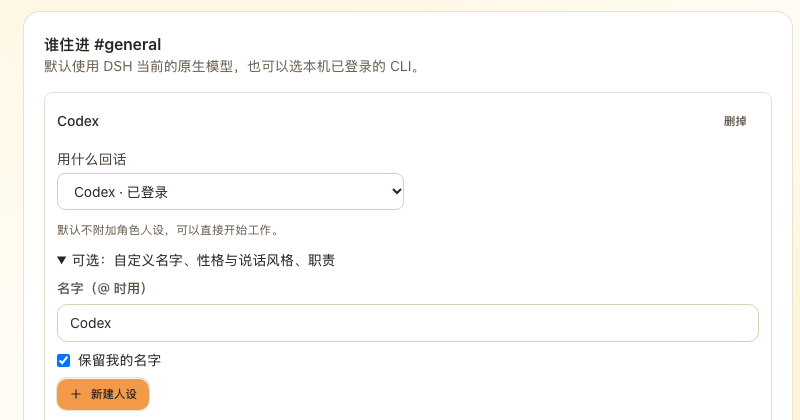
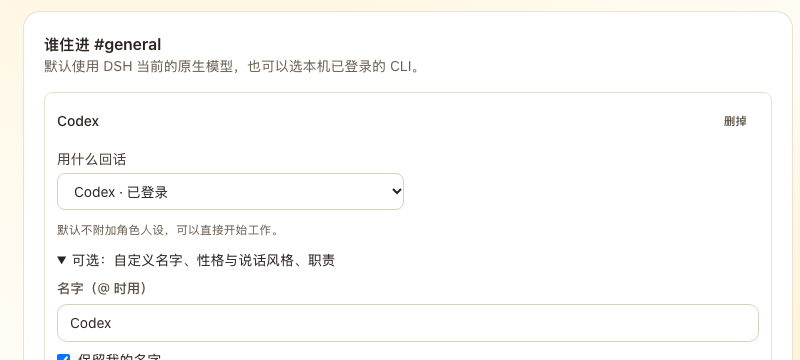
docs-site: 照 Fable 上线后复看改一轮
- 首页卡片先指向「装 bothouse」，名词对照挪进新手教程组
- 加「还没有 AI 工具？」，安装包放第一、补终端怎么打开
- Discord：页首安全提醒，邀请进服务器改成正式步骤，第二个队员改成实测过的加法
- DSH：两个队员改成必做，补按钮截图，刷新说法统一
- 架构图加大字号、点开看大图，截图都能点开看原图

diff --git a/docs-site/.vitepress/theme/custom.css b/docs-site/.vitepress/theme/custom.css
@@ -17,3 +17,10 @@
 .route p { margin: 6px 0 !important; font-size: 14px; line-height: 1.6; }
 .route .go { display: inline-block; margin-top: 8px; font-weight: 600; }
 .route.wip { opacity: .8; }
+@media (min-width: 960px) {
+  .VPHero .image-container { width: 520px; height: auto; transform: none; }
+}
+.VPHero .image-container { height: auto; }
+.VPHero .image-bg { display: none; }
+.VPHero .image-src { position: static; transform: none; max-width: 100%; max-height: none; border-radius: 18px; box-shadow: 0 12px 40px rgba(60, 40, 120, .18); }
+.vp-doc img { cursor: zoom-in; }

diff --git a/docs-site/.vitepress/theme/index.ts b/docs-site/.vitepress/theme/index.ts
@@ -1,3 +1,18 @@
 import DefaultTheme from 'vitepress/theme'
+import { onMounted } from 'vue'
 import './custom.css'
-export default DefaultTheme
+
+export default {
+  extends: DefaultTheme,
+  setup() {
+    onMounted(() => {
+      // 正文里的截图点一下在新窗口看原图
+      document.addEventListener('click', (e) => {
+        const t = e.target as HTMLElement
+        if (t && t.tagName === 'IMG' && t.closest('.vp-doc') && !t.closest('a')) {
+          window.open((t as HTMLImageElement).src, '_blank')
+        }
+      })
+    })
+  },
+}

diff --git a/docs-site/guide/discord.md b/docs-site/guide/discord.md
@@ -4,23 +4,24 @@
 
 ![做完的样子：你问机器人是谁，它回答](/img/discord/06-first-reply.png)
 
+::: danger 先记住一件事
+装到最后一页，一定要把「谁能指挥这些机器人」改成只有你自己（第 5 步会教）。不改的话，你服务器里**任何人**都能让机器人在你电脑上跑命令。
+:::
+
 ## 要准备什么
 
 在打开安装页面**之前**把这几样弄好，中途去弄会很麻烦：
 
 1. **一个你能管理的 Discord 服务器**。自己新建一个最省事：Discord 左边栏点「+」→ 创建服务器。
 2. **一个已登录的 AI 工具**：终端里敲 `codex` 或 `claude` 能正常聊天。**一定先登录好**——装到一半回去登录、再刷新安装页面，前面填的东西会被清空。
-3. **你自己的 Discord 用户 ID**（一串数字，后面用来设置「只有我能指挥它」）：Discord 设置 → 高级 → 打开「开发者模式」；然后右键自己的头像 →「复制用户 ID」，先存到记事本。
-4. **已经装好 bothouse**。还没装：[开始前：装 bothouse](./install)。
+3. **已经装好 bothouse，并打开了安装页面**。还没装：[开始前：装 bothouse](./install)。还没有 AI 工具：[还没有 AI 工具？](./choose#no-ai)。
 
-先只建**一个**机器人走通。想要更多队员，走通后再加。
+## 1. 去 Discord 后台建两个机器人 {#step-1}
 
-## 1. 去 Discord 后台建一个机器人 {#step-1}
-
-**一个机器人 = 一个 AI 队员。** 这一步在 Discord 的开发者后台做，页面是英文的。
+在 Discord 里，**一个机器人 = 一个 AI 队员**。建两个：一个当队长，一个当队员，第 7 步派活要用。这一步在 Discord 的开发者后台做，页面是英文的。下面 1 到 3 小步做两遍。
 
 1. 打开 [discord.com/developers/applications](https://discord.com/developers/applications)，点右上角 **New Application**，起个名字（这就是它在群里的名字），点 Create。
-2. 左边点 **Bot**，再点 **Reset Token**，然后点 **Copy** 复制。这串字就是**机器人的密码**，只显示一次，先存到记事本。
+2. 左边点 **Bot**，再点 **Reset Token**，然后点 **Copy** 复制。这串字就是**机器人的密码**（页面上叫 token），只显示一次，先存到记事本。
 3. 还在 Bot 这一页，往下翻到 **Privileged Gateway Intents**，打开 **Message Content Intent**（「允许机器人读消息」的开关），点 **Save Changes**。
 
 ::: warning 第 3 步最容易忘
@@ -35,27 +36,27 @@
 
 回到安装页面，第一页点 **Discord**，点「下一步」。
 
-1. 把刚才复制的密码贴进「机器人 token」，点 **校验**。
-2. 「装在哪个服务器」选你的服务器，「默认聊天频道」选一个频道（比如 #常规）。
-3. 点「下一步」。
-
-你会看到：校验后密码框下面出现绿色的机器人名字和一串编号。
+1. 把第一个机器人的密码贴进「机器人 token」，点 **校验**。你会看到：密码框下面出现绿色的机器人名字和一串编号。
+2. **把机器人拉进你的服务器**：新建的机器人还不在任何服务器里，校验后会出现黄字「这个机器人还没进所选服务器」，后面跟着「邀请链接」。点这个链接，在弹出的 Discord 页面里选你的服务器，点授权。这个链接已经带齐了机器人要的权限，不要自己去后台拼链接。
+3. 点「再加一个机器人」，贴第二个机器人的密码，同样点「校验」，同样用它的「邀请链接」拉进服务器。
+4. 「装在哪个服务器」选你的服务器，「默认聊天频道」选一个频道（比如 #常规）。
+5. 点「下一步」。
 
 ![贴好机器人密码，校验通过](/img/discord/02-token.png)
 
 ::: details 没看到？
-- **校验后出现黄字「这个机器人还没进所选服务器」**：点黄字后面的「邀请链接」，选你的服务器，授权，再回来。这个链接已经带齐了机器人要的权限，不要自己去后台拼链接。
 - **出现黄字说 Message Content Intent 没开**：回第 1 步第 3 小步打开，保存，再点一次「校验」。
-- **服务器下拉框是空的**：机器人还没进任何服务器，同样点下面的「邀请链接」拉它进去。
+- **服务器下拉框是空的**：机器人还没进任何服务器，点下拉框下面的「邀请链接」拉它进去。
+- 邀请链接这一步我们实测时用的是已经在服务器里的机器人，没有从零点过。
 :::
 
-## 3. 第 3、4 页：选 AI 工具，起名字（可跳过）
+## 3. 第 3、4 页：选 AI 工具，起名字
 
-第 3 页「本机 CLI」列出你电脑上装了的 AI 工具，选一个显示「已登录」的，点「下一步」。
+第 3 页「本机 CLI」列出你电脑上装了的 AI 工具，给每个队员选一个显示「已登录」的（两个选同一个也行），点「下一步」。
 
 ![选一个已登录的 AI 工具](/img/discord/03-cli.png)
 
-第 4 页「人设」是名字和性格。**可以留空直接下一步**，以后随时能改。想给它性格，复制这段改一改：
+第 4 页「人设」是名字和性格。**这一页可以留空直接下一步**，以后随时能改。想给它性格，复制这段改一改：
 
 ```
 你叫小橙，是这个群的队长。说话简短，先说结论。
@@ -66,15 +67,17 @@
 ## 4. 第 5 页「主角色」：选队长，选「仅被点名时回复」
 
 - **群聊参与方式**：选「仅被点名时回复（推荐，不用装模型）」。群里 @ 谁谁回。
-- **主角色**：就是队长。只有一个机器人就选它。
+- **主角色**：就是队长。选你想让它带队的那个机器人。
 
 ![选队长和回复方式](/img/discord/04-lead.png)
 
 ## 5. 第 6 页「完成」：改成只有你能指挥，保存，重启
 
-1. 找到「谁能指挥这些机器人」这个框。**它默认是 `*`，意思是服务器里任何人都能让机器人在你电脑上跑命令。** 把 `*` 换成准备里复制的你的用户 ID。
+1. 找到「谁能指挥这些机器人」这个框。**它默认是 `*`，意思是服务器里任何人都能让机器人在你电脑上跑命令。** 把 `*` 换成你自己的 Discord 用户 ID（一串数字）。拿 ID 的办法：
+   - Discord 左下角你头像旁边的齿轮（用户设置）→「高级」→ 打开「开发者模式」。
+   - 回到任意频道，在右边成员列表里（或聊天记录里）右键你自己的名字 →「复制用户 ID」，粘贴进这个框。
 2. 其他勾选框都不用动。
-3. 点 **保存配置**，等出现「保存好了」，再点 **重启生效**。
+3. 点 **保存配置**，等出现「保存好了」，再点 **重启生效**。这里重启的是 bothouse 这个程序，不是你的电脑，几秒钟就好。
 
 ![完成页：「谁能指挥这些机器人」那一栏](/img/discord/05-finish.png)
 
@@ -97,7 +100,7 @@
 ![第一句对话](/img/discord/06-first-reply.png)
 
 ::: details 一直显示「正在输入」好几分钟？
-多半是 AI 工具背后的模型那边太忙。实测时 OpenAI 回了「模型满载」，Codex 自己等了 5 分钟才重试，频道里只能看到「正在输入」。等一等；急的话对它说「换成 xx 模型」。
+多半是 AI 工具背后的模型那边太忙。实测时 OpenAI 回了「模型满载」，Codex 自己等了 5 分钟才重试，频道里只能看到「正在输入」。等一等；急的话问它「你能换成哪些模型？」，挑一个让它换。
 :::
 
 ::: details @ 了也不回？
@@ -106,13 +109,9 @@
 - 同一个机器人在另一台电脑上也开着 bothouse：一个机器人只能在一处在线，关掉另一台。
 :::
 
-## 7. 再加一个队员，派一次活
+## 7. 让队长派一次活
 
-一个机器人就能用了。想看它派活，要再加一个队员：
-
-1. 回第 1 步，在 Discord 后台再建一个机器人，同样复制密码、打开「允许机器人读消息」。
-2. 终端里敲 `bothouse web` 打开管理面板，点「添加角色/模型」，贴第二个密码，走完同样几页。
-3. 在频道里发：
+在频道里发（［方括号］换成你两个机器人的名字）：
 
 ```
 @［队长名字］ 派个小活给［队员名字］：让她查一下现在几点，把结果发回这个频道。
@@ -128,4 +127,4 @@
 - 想关掉终端它也一直在线：[关掉窗口也一直在线](../advanced/always-online)。
 - 装完它会每小时问自己要不要说话，嫌吵就[关掉](../advanced/hourly-chat)。
 
-<small>本章验证情况：bothouse v0.1.71，macOS，2026-11-12 在一台干净环境里从头走过（建机器人、邀请链接两处用的是现成机器人，没有从零点过；第 7 步实测时两个机器人是在安装页面里一次加的）。</small>
+<small>本章验证情况：bothouse v0.1.71，macOS，2026-11-12 在一台干净环境里从头走过。在 Discord 后台建机器人、用邀请链接拉进服务器这两步，用的是现成的机器人，没有从零点过。</small>

diff --git a/docs-site/guide/install.md b/docs-site/guide/install.md
@@ -1,20 +1,33 @@
 # 开始前：装 bothouse
 
+::: tip 看到不懂的词
+先查[名词对照](../glossary)。还没有 AI 工具的，先看[还没有 AI 工具？](./choose#no-ai)。
+:::
+
 三条路线都从这一页开始。做完这页，你的浏览器里会打开 bothouse 的**安装页面**。
 
 ## 1. 下载安装
 
-任选一种。本教程实测用的是第一种。
+任选一种。
 
-**用一行命令装（推荐）**
+**新手推荐：下载安装包，双击打开**
 
-Mac 或 Linux：打开「终端」，复制下面这行，回车。
+去 [下载页](https://github.com/zuiho-kai/bothouse/releases/latest) 下载：
+
+- Mac：`bothouse-mac.dmg`，打开后把 Bothouse 拖进「应用程序」。第一次打开要**右键 → 打开**（安装包没有签名，直接双击会被拦）。
+- Windows：`bothouse-windows.exe`，双击运行。被 SmartScreen 拦住就点「更多信息 → 仍要运行」。
+
+**或者用一行命令装**（本教程实测用的是这种）
+
+先打开终端：Mac 按 `Command + 空格`，输入「终端」回车；Windows 开始菜单搜「PowerShell」打开（不用管理员）。
+
+Mac 或 Linux，复制下面这行，粘贴进终端，回车：
 
 ```sh
 curl -fsSL https://raw.githubusercontent.com/zuiho-kai/bothouse/main/install.sh | sh
 ```
 
-Windows：开始菜单搜「PowerShell」打开（不用管理员），复制下面这行，回车。
+Windows，复制下面这行，粘贴进 PowerShell，回车：
 
 ```powershell
 irm https://raw.githubusercontent.com/zuiho-kai/bothouse/main/install.ps1 | iex
@@ -22,27 +35,22 @@ irm https://raw.githubusercontent.com/zuiho-kai/bothouse/main/install.ps1 | iex
 
 你会看到：最后一行是 `Installed: …/bothouse (v0.1.xx)`。
 
-**或者下载安装包，双击打开**
-
-去 [下载页](https://github.com/zuiho-kai/bothouse/releases/latest) 下载：
-
-- Mac：`bothouse-mac.dmg`，把 Bothouse 拖进「应用程序」。第一次打开要**右键 → 打开**（安装包没有签名，直接双击会被拦）。
-- Windows：`bothouse-windows.exe`，双击运行。被 SmartScreen 拦住就点「更多信息 → 仍要运行」。
-
 ::: details 没装上？
-- **国内网络下载很慢或失败**：GitHub 在国内不稳定，先开代理再跑。
+- **国内网络下载很慢或失败**：安装包放在 GitHub 上，国内经常连不上。要用能打开 GitHub 的网络（比如开着你平时「翻墙」用的软件）再下载。
 - **提示 `typing 'bothouse' runs another copy first`**：你电脑上还有一个旧的 bothouse。照它打出的那行命令把新的路径放到前面，或者直接用它打出的完整路径运行。
 :::
 
 ## 2. 打开安装页面
 
-终端里敲：
+用安装包装的：直接打开 Bothouse 应用。
+
+用命令装的：在终端里敲下面这个词，回车。
 
 ```sh
 bothouse
 ```
 
-（用安装包装的，直接打开 Bothouse 应用就行。）
+提示「找不到命令」（command not found）？把终端窗口关掉，重新打开一个再敲。
 
 你会看到：浏览器自动打开一个页面，最上面写着「从这里，成为一支队伍」，下面让你选「你想在哪儿用？」。
 
@@ -58,7 +66,9 @@ bothouse
 
 - 点 **DSH** → [路线 A：DSH 桌面版](./dsh)
 - 点 **Discord** → [路线 B：Discord](./discord)
-- 点 **QQ** → [路线 C：QQ](./qq)
+- 点 **QQ** → [路线 C：QQ](./qq)（施工中）
+
+卡片里还有一个「飞书 / Lark」，暂时没有新手教程。
 
 ::: tip 卡片上的小字看不懂？
 卡片上写的「一主多 sub、gate」这些是内部叫法，不用管。意思是「可以有一个队长带几个队员」。所有叫法的对照见[名词对照](../glossary)。

diff --git a/docs-site/index.md b/docs-site/index.md
@@ -5,8 +5,8 @@ hero:
   text: 几个 AI，进一个群，自己分活
   tagline: 把你电脑上已经登录好的 Claude Code、Codex、Gemini 拉进聊天软件。你 @ 队长说一句，它拆活分给队员，做完交回给你。
   image:
-    src: /img/logo.svg
-    alt: bothouse
+    src: /img/hero.jpg
+    alt: 几个 AI 队员围坐一桌，各自开着电脑分工干活
   actions:
     - theme: brand
       text: 开始：先选一条路
@@ -28,13 +28,13 @@ hero:
 <h3>A · DSH 桌面版 <span class="badge-ok">推荐第一次</span></h3>
 <p>不用注册机器人，不用复制密码。装好 DeepSeek 的桌面应用，AI 队员就住在它的频道里。</p>
 <p>大约 15 分钟，其中 4 分钟是等安装。全程实测过。</p>
-<a class="go" href="./guide/dsh">走这条 →</a>
+<a class="go" href="./guide/install?route=dsh">第 1 步：先装 bothouse →</a>
 </div>
 <div class="route">
 <h3>B · Discord</h3>
 <p>想在手机上用，或者想和朋友在一个群里用 AI，选它。功能最全。</p>
 <p>要去 Discord 的英文后台建机器人，步骤最多。全程实测过。</p>
-<a class="go" href="./guide/discord">走这条 →</a>
+<a class="go" href="./guide/install?route=discord">第 1 步：先装 bothouse →</a>
 </div>
 <div class="route wip">
 <h3>C · QQ <span class="badge-untested">施工中</span></h3>
@@ -47,6 +47,6 @@ hero:
 
 ![一张图看懂 bothouse：你已经登录的 AI 命令行进到一个聊天群；组长 AI 拆活、派活；大活开单独的工作频道；做完交回；大家共用一份记忆](/img/overview.jpg)
 
-想知道消息具体怎么走，看[它是怎么工作的](./how-it-works)。
+图里的「组长」就是教程里说的队长。想知道消息具体怎么走，看[它是怎么工作的](./how-it-works)。
 
 </div>

diff --git a/docs-site/guide/choose.md b/docs-site/guide/choose.md
@@ -22,6 +22,16 @@
 ## 三条路都要先准备
 
 - **一台电脑**：Mac、Windows、Linux 都行。
-- **一个已经登录的 AI 工具**：比如 Codex（打开终端敲 `codex` 能用）或 Claude Code（敲 `claude` 能用）。没登录的先登录，bothouse 用的就是它的登录。路线 A 也可以不装这些，改填一把 DeepSeek 的 API Key。
+- **一个 AI**：下面三种任选一种，见「还没有 AI 工具？」。
+
+## 还没有 AI 工具？ {#no-ai}
+
+bothouse 自己不带 AI，要借用你已有的。三种办法，选一种：
+
+1. **最省事（只适合路线 A）：一把 DeepSeek 的 API Key。** API Key 就是一串让程序替你用 DeepSeek 的密码。去 [platform.deepseek.com](https://platform.deepseek.com) 注册、充一点钱（按用量扣费），在「API Keys」页点创建，复制那串 `sk-` 开头的字，装的时候贴进去。什么都不用装。
+2. **Codex**（OpenAI 出的）：一般要一个 ChatGPT 付费账号。照 [Codex 官方说明](https://github.com/openai/codex) 装好，打开终端敲 `codex`，按提示用 ChatGPT 账号登录；能和它正常聊天，就算登录好了。
+3. **Claude Code**（Anthropic 出的）：一般要一个 Claude 付费账号。照 [Claude Code 官方说明](https://www.anthropic.com/claude-code) 装好，打开终端敲 `claude`，按提示登录；能正常聊天就算好了。
+
+**终端**是电脑自带的一个打命令的窗口。Mac：按 `Command + 空格`，输入「终端」回车。Windows：开始菜单搜「PowerShell」打开。
 
 准备好了，下一步：[装 bothouse](./install)。

diff --git a/docs-site/troubleshooting.md b/docs-site/troubleshooting.md
@@ -1,6 +1,6 @@
 # 常见卡点
 
-按你看到的现象找。
+按你看到的现象找。开头写着「Discord：」「DSH：」的，只和那条路线有关。
 
 ## 装不上
 
@@ -14,7 +14,7 @@
 
 **敲了 `bothouse` 浏览器没反应** — 把终端里打出的 `http://localhost:…/login?token=…` 链接复制到浏览器。别把这条链接发给别人。
 
-**刷新后前面填的都没了** — 刷新会清空填过的内容。所以开始前先把 AI 工具登录好，中途别刷新。
+**刷新后前面填的都没了** — 填过东西以后刷新浏览器，填的内容会被清空（还没填时刷新没关系）。所以开始前先把 AI 工具登录好，填了东西就别刷新。
 
 ## 不回话
 
@@ -30,7 +30,7 @@
 
 ## 回得很慢
 
-**一直「正在输入」，好几分钟** — 多半是 AI 工具背后的模型太忙，工具自己在等着重试。等一等；急的话对它说「换成 xx 模型」。见[换模型](./advanced/model)。
+**一直「正在输入」，好几分钟** — 多半是 AI 工具背后的模型太忙，工具自己在等着重试。等一等；急的话问它「你能换成哪些模型？」，挑一个让它换。见[换模型](./advanced/model)。
 
 **DSH：点「安装插件」后几分钟没动** — 正常，要 3 到 4 分钟。
 

diff --git a/docs-site/advanced/memory.md b/docs-site/advanced/memory.md
@@ -1,10 +1,10 @@
 # 团队记忆
 
-队员们共用一本**笔记本**：就是你电脑上的一个文件夹（默认在 `~/wiki`），里面是普通的 Markdown 文件，你能直接打开看、打开改。
+队员们共用一本**笔记本**：就是你电脑上的一个文件夹（默认在 `~/wiki`），里面是普通的文本文件（.md），你能直接打开看、打开改。
 
 - **聊完会自动整理进去**：做过的事、你说过的习惯，会被记下来。每半小时、每天晚上各整理一次。
 - **下次会带上**：聊到相关的事，队员会先翻笔记本里相关的那几页。
 - **你说了算**：觉得哪条记错了，直接打开文件改掉或删掉。
-- **可以存进你自己的私有仓库**：这个文件夹可以用 Git 管理，推到你自己的 GitHub 私有仓库备份。
+- **可以备份**：会用 Git 的话，可以把这个文件夹备份到你自己的 GitHub 私有仓库。不会也不影响使用。
 
 想手动配置记忆，或者想知道它怎么挑出相关的那几页，见仓库里的[记忆配置说明](https://github.com/zuiho-kai/bothouse/blob/main/docs/ccm-and-wiki.md)。

diff --git a/docs-site/guide/first-day.md b/docs-site/guide/first-day.md
@@ -1,6 +1,6 @@
 # 装好之后：第一天能干什么
 
-下面每段都能直接复制，发给你的队长（记得 @ 它）。［方括号］里换成你自己的内容。
+下面每段都能直接复制，@ 你的队长发出去。没专门选过队长，就 @ 任意一个队员。［方括号］里换成你自己的内容。
 
 ## 先定规矩 {#rules}
 
@@ -8,8 +8,8 @@ AI 能在你电脑上跑命令。第一件事，先把底线说清楚：
 
 ```
 以后的规矩：
-查资料、整理内容、写草稿、跑只读命令，可以直接做。
-公开发布、花钱、删文件、推代码之前，把要做什么、改哪里先发给我，等我确认。
+查资料、整理内容、写草稿、只查看不修改的操作，可以直接做。
+公开发布、花钱、删文件、把代码传到网上之前，把要做什么、改哪里先发给我，等我确认。
 交结果时带依据（命令输出或截图）。缺材料、没权限，或者同一个问题连错两次，就停下来告诉我，不要编造完成。
 ```
 

diff --git a/docs-site/advanced/model.md b/docs-site/advanced/model.md
@@ -1,6 +1,6 @@
 # 换模型
 
-最简单：在聊天里 @ 那个队员，说「换成 xx 模型」。它会查自己能用哪些模型，帮你换上，**从你的下一条消息开始生效**。
+最简单：在聊天里 @ 那个队员，问「你能换成哪些模型？」，再说「换成［它列出的某个］」。它会查自己能用哪些模型，帮你换上，**从你的下一条消息开始生效**。
 
 也可以在终端里看和改：
 
